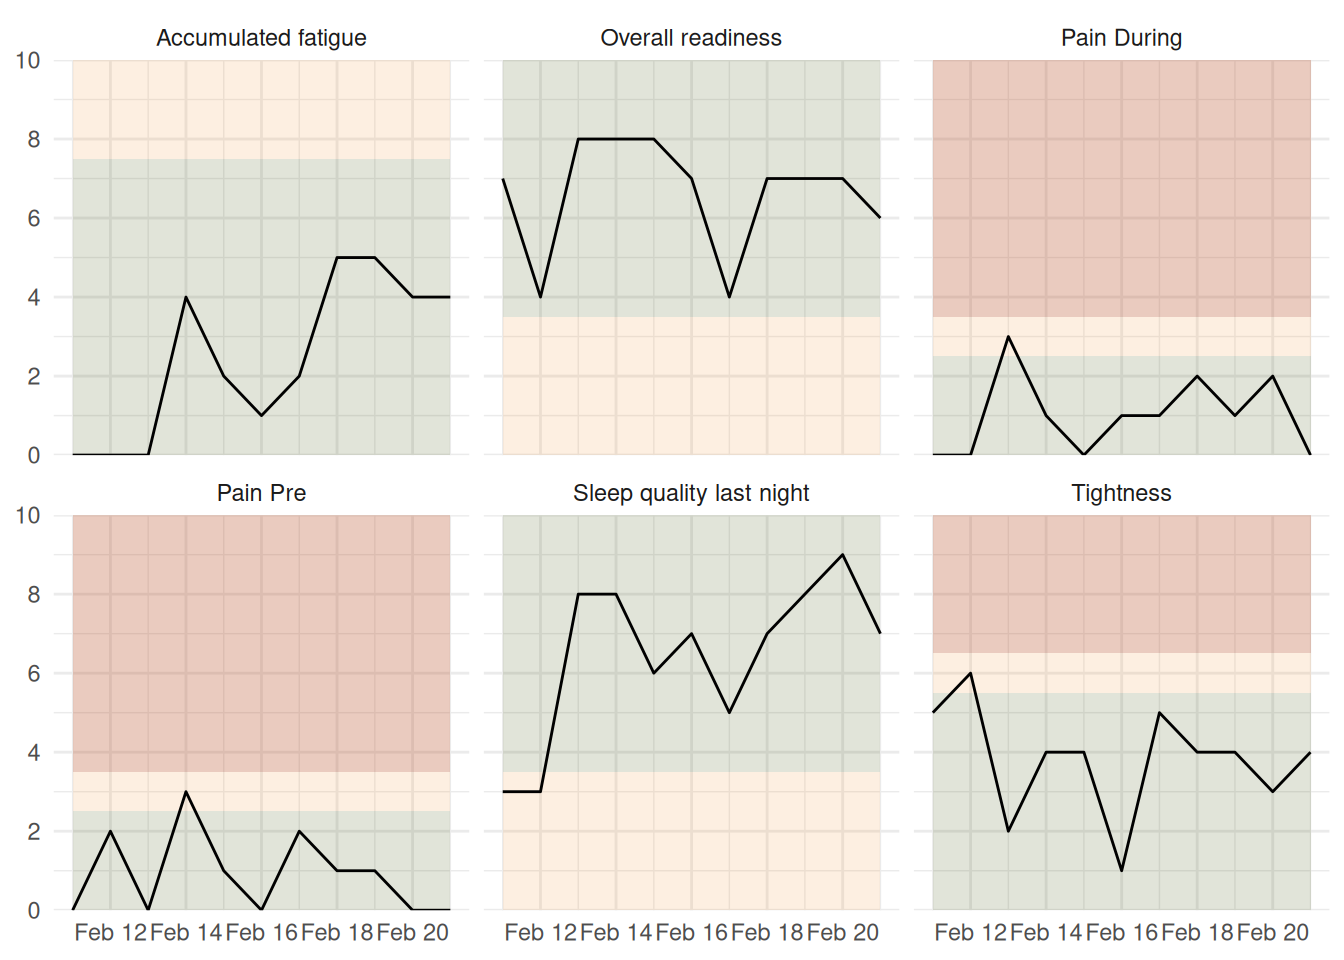
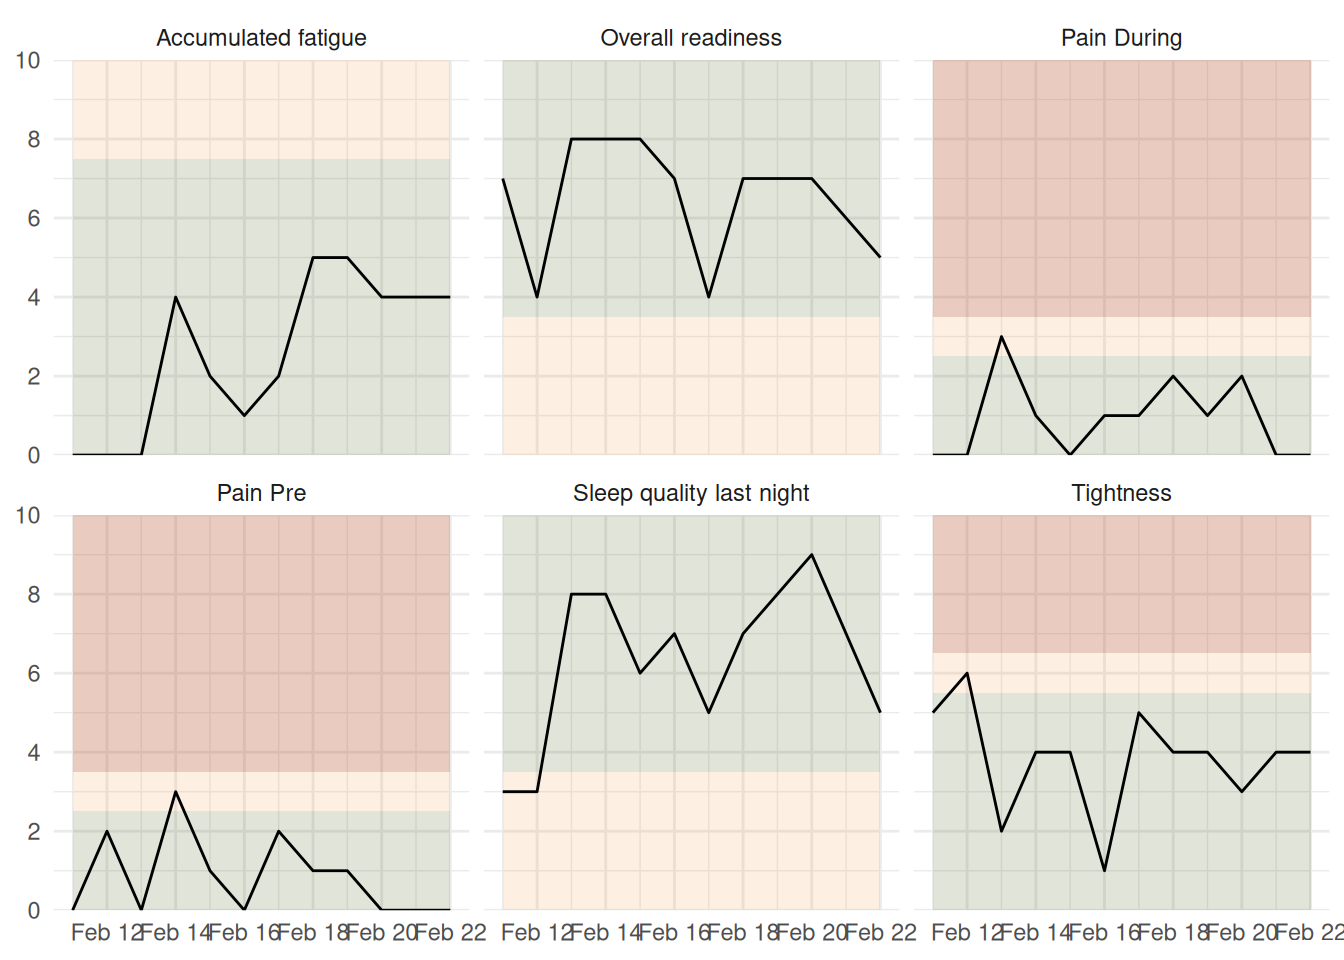
deploy: 1881e4ef7192a38233eee97bcd0dfeb0b25d7a1d

diff --git a/index.html b/index.html
@@ -135,14 +135,14 @@ ul.task-list li input[type="checkbox"] {
      border-radius:20px;
      font-weight:600;
      color:white;
-     background-color:#800000;">NO RUNNING</div>
+     background-color:#F49937;">RE-INTRODUCE RUNNING</div>
 </div>
 </div>
 <section id="details-for-todays-training-status" class="level3">
 <h3 class="anchored" data-anchor-id="details-for-todays-training-status">Details for Today’s Training Status</h3>
-<p><strong>Message:</strong> Running is blocked today; other modalities may still be performed with caution.</p>
-<p><strong>What’s the problem:</strong> Irregular stride pattern. Running likely to be unsafe.</p>
-<p><strong>Which activities are blocked:</strong> running</p>
+<p><strong>Message:</strong> Gradually increase running. Follow back-from-injury protocol: 1 day on 1 day off for 4 days than two times 2 days on 1 day off. Start with run/walk workouts and stop immediately if pain increases during exercise. Even if only a bit.</p>
+<p><strong>What’s the problem:</strong> Some functional restriction present.</p>
+<p><strong>Which activities are blocked:</strong> NA</p>
 </section>
 <section id="second-status-if-active" class="level3">
 <h3 class="anchored" data-anchor-id="second-status-if-active">Second Status if Active</h3>
@@ -153,13 +153,13 @@ ul.task-list li input[type="checkbox"] {
      border-radius:20px;
      font-weight:600;
      color:white;
-     background-color:#F49937;">RE-INTRODUCE RUNNING</div>
+     background-color:#F49937;">CAUTION</div>
 </div>
 </div>
 <section id="details-of-the-second-status" class="level4">
 <h4 class="anchored" data-anchor-id="details-of-the-second-status">Details of the Second Status</h4>
-<p><strong>Message:</strong> Gradually increase running. Follow back-from-injury protocol: 1 day on 1 day off for 4 days than two times 2 days on 1 day off. Start with run/walk workouts and stop immediately if pain increases during exercise. Even if only a bit.</p>
-<p><strong>What’s the problem:</strong> Some functional restriction present.</p>
+<p><strong>Message:</strong> Caution advised. Monitor the development of pain, tightness, fatigue, sleep, and readiness closely over the next couple of days.</p>
+<p><strong>What’s the problem:</strong> Readiness is somewhat low. Why?, Motivation below normal. What’s wrong? Think about why you are doing this. All the beautiful runs and at some point on the top of the podium. You can do this! If it persists take some time off and do things you enjoy.</p>
 <p><strong>Which activities are blocked:</strong> NA</p>
 </section>
 </section>
@@ -175,7 +175,8 @@ ul.task-list li input[type="checkbox"] {
 [1] "2026-02-18"
 [1] "2026-02-19"
 [1] "2026-02-20"
-[1] "2026-02-21"</code></pre>
+[1] "2026-02-21"
+[1] "2026-02-22"</code></pre>
 </div>
 <div class="cell-output-display">
 <div>
@@ -265,8 +266,8 @@ ul.task-list li input[type="checkbox"] {
 <h3 class="anchored" data-anchor-id="goal-volume-by-heart-rate-distribution">Goal Volume by Heart Rate Distribution</h3>
 <div class="cell">
 <div class="cell-output-display">
-<div class="datatables html-widget html-fill-item" id="htmlwidget-9eab5b4507a8bac70287" style="width:100%;height:auto;"></div>
-<script type="application/json" data-for="htmlwidget-9eab5b4507a8bac70287">{"x":{"filter":"none","vertical":false,"data":[[0,1,2,3,4],["&lt;125","125-143","144-160","161-177","178-200"],[0,40,50,8,2],[22.1,32.8,43.9,1.2,0],[null,null,null,null,null]],"container":"<table class=\"display\">\n  <thead>\n    <tr>\n      <th>Zone<\/th>\n      <th>Current HR Thresholds<\/th>\n      <th>Share (in %)<\/th>\n      <th>Share Last Week Total (in %)<\/th>\n      <th>Share Last Week Running (in %)<\/th>\n    <\/tr>\n  <\/thead>\n<\/table>","options":{"dom":"t","paging":false,"ordering":false,"info":false,"columnDefs":[{"className":"dt-right","targets":[0,2,3,4]},{"name":"Zone","targets":0},{"name":"Current HR Thresholds","targets":1},{"name":"Share (in %)","targets":2},{"name":"Share Last Week Total (in %)","targets":3},{"name":"Share Last Week Running (in %)","targets":4}],"order":[],"autoWidth":false,"orderClasses":false}},"evals":[],"jsHooks":[]}</script>
+<div class="datatables html-widget html-fill-item" id="htmlwidget-37941315389570c91b7f" style="width:100%;height:auto;"></div>
+<script type="application/json" data-for="htmlwidget-37941315389570c91b7f">{"x":{"filter":"none","vertical":false,"data":[[0,1,2,3,4],["&lt;125","125-143","144-160","161-177","178-200"],[0,40,50,8,2],[22.1,32.8,43.9,1.2,0],[null,null,null,null,null]],"container":"<table class=\"display\">\n  <thead>\n    <tr>\n      <th>Zone<\/th>\n      <th>Current HR Thresholds<\/th>\n      <th>Share (in %)<\/th>\n      <th>Share Last Week Total (in %)<\/th>\n      <th>Share Last Week Running (in %)<\/th>\n    <\/tr>\n  <\/thead>\n<\/table>","options":{"dom":"t","paging":false,"ordering":false,"info":false,"columnDefs":[{"className":"dt-right","targets":[0,2,3,4]},{"name":"Zone","targets":0},{"name":"Current HR Thresholds","targets":1},{"name":"Share (in %)","targets":2},{"name":"Share Last Week Total (in %)","targets":3},{"name":"Share Last Week Running (in %)","targets":4}],"order":[],"autoWidth":false,"orderClasses":false}},"evals":[],"jsHooks":[]}</script>
 </div>
 </div>
 
